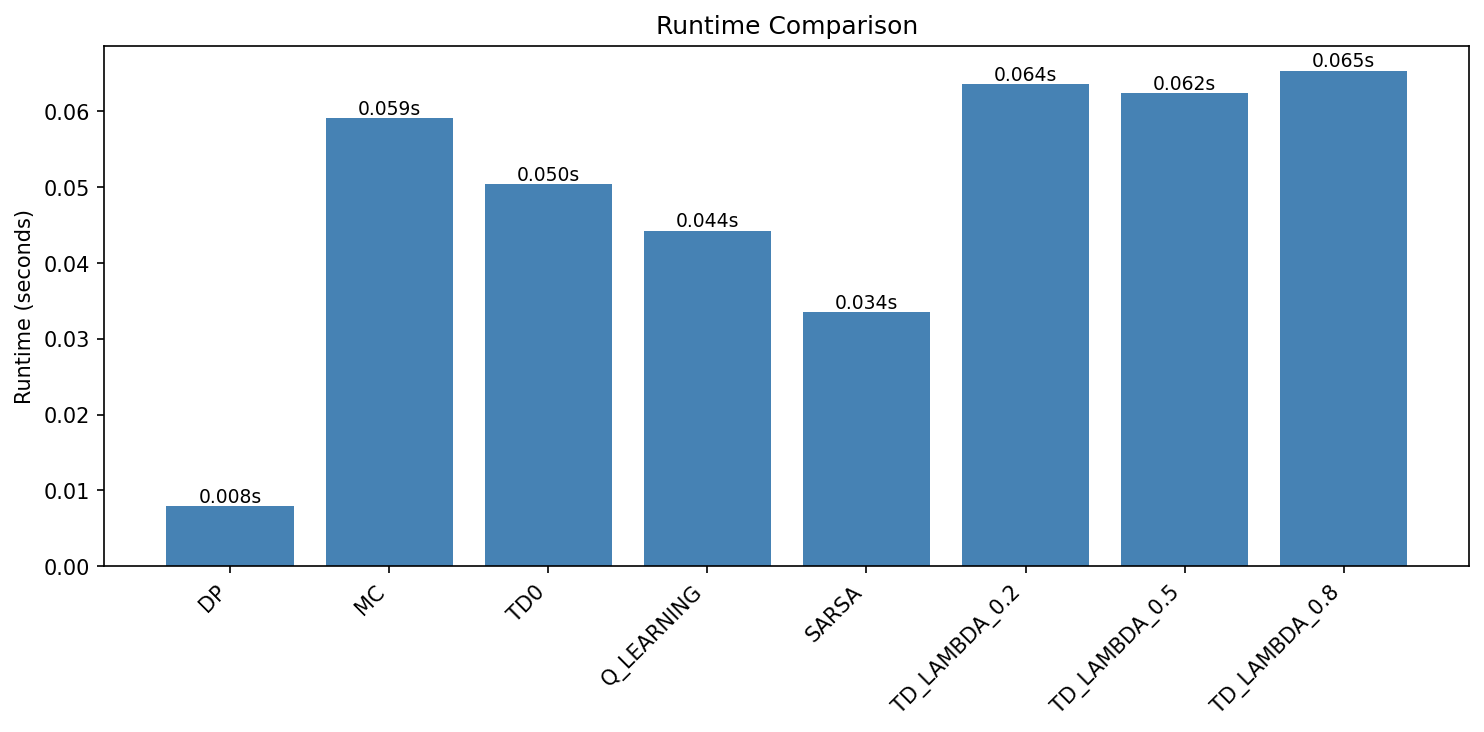
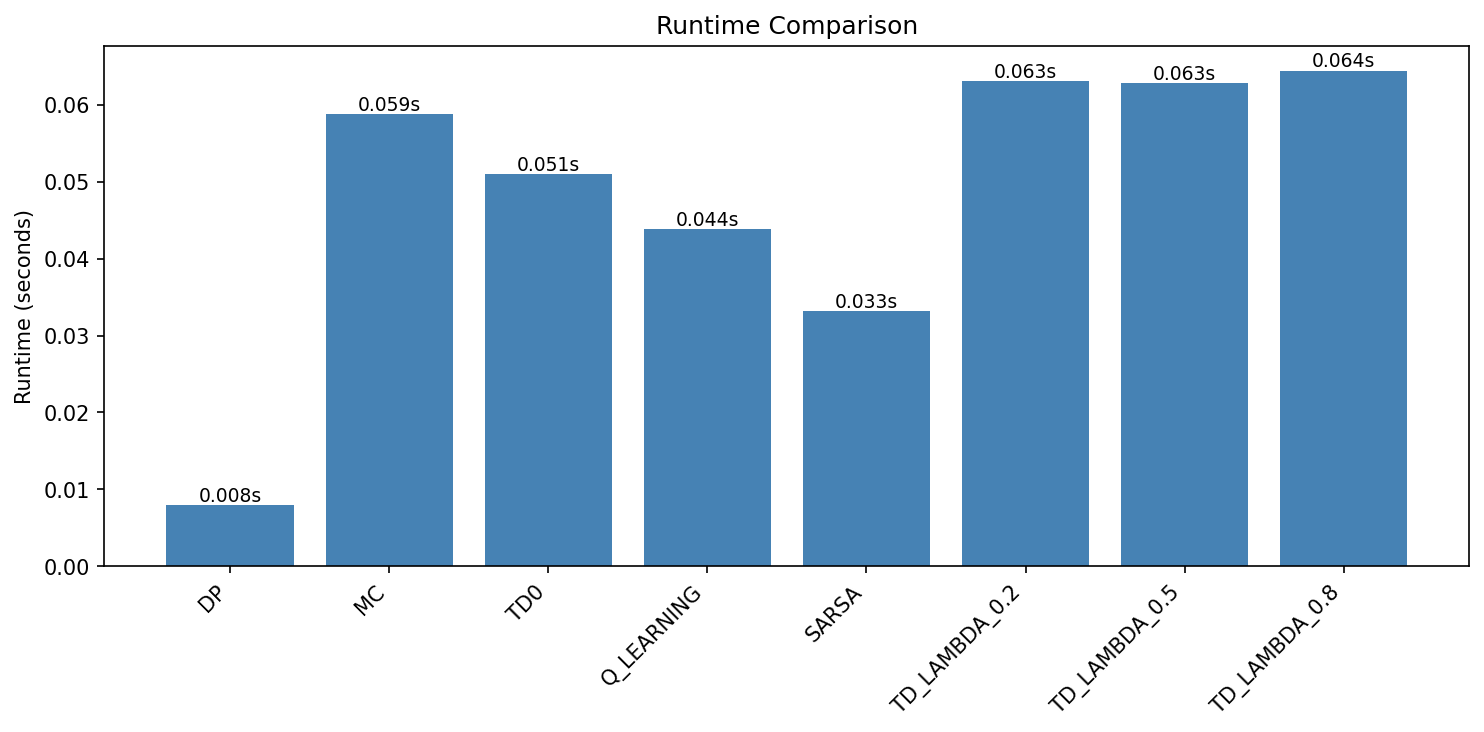
Add abstract generator, output plots, and update gitignore

diff --git a/imitations/create_abstract.py b/imitations/create_abstract.py
@@ -1,0 +1,177 @@
+"""Generate the project abstract as a formatted .docx following the template."""
+
+from docx import Document
+from docx.shared import Pt, Cm, RGBColor
+from docx.enum.text import WD_ALIGN_PARAGRAPH
+from docx.oxml.ns import qn
+import os
+
+OUTPUT_DIR = os.path.dirname(os.path.abspath(__file__))
+FIGURE_PATH = os.path.join(OUTPUT_DIR, "output_plots", "4_trajectories.png")
+OUT_PATH = os.path.join(OUTPUT_DIR, "abstract.docx")
+
+doc = Document()
+
+# --- Page margins: 2.5 cm all round ---
+for section in doc.sections:
+    section.top_margin = Cm(2.5)
+    section.bottom_margin = Cm(2.5)
+    section.left_margin = Cm(2.5)
+    section.right_margin = Cm(2.5)
+
+# --- Helper to set font on a run ---
+def set_run_font(run, name, size, bold=False, italic=False, color=None):
+    run.font.name = name
+    run.font.size = Pt(size)
+    run.bold = bold
+    run.italic = italic
+    if color:
+        run.font.color.rgb = RGBColor(*color)
+    # Force font for East Asian text too
+    r = run._element
+    rPr = r.get_or_add_rPr()
+    rFonts = rPr.find(qn('w:rFonts'))
+    if rFonts is None:
+        rFonts = r.makeelement(qn('w:rFonts'), {})
+        rPr.insert(0, rFonts)
+    rFonts.set(qn('w:ascii'), name)
+    rFonts.set(qn('w:hAnsi'), name)
+
+def set_paragraph_spacing(para, before=0, after=0, line_spacing=1.0):
+    pf = para.paragraph_format
+    pf.space_before = Pt(before)
+    pf.space_after = Pt(after)
+    pf.line_spacing = line_spacing
+
+# --- Title (Arial 14pt, bold, centred) ---
+title = doc.add_paragraph()
+title.alignment = WD_ALIGN_PARAGRAPH.CENTER
+run = title.add_run(
+    "Dropout-Aware Q-Learning for Trajectory Tracking Under "
+    "Lossy Network Conditions: A Simplified Simulation Study Inspired "
+    "by Inverse Reinforcement Learning With Data Dropouts"
+)
+set_run_font(run, "Arial", 14, bold=True)
+set_paragraph_spacing(title, before=0, after=6)
+
+# --- Author (Times New Roman 14pt) ---
+author = doc.add_paragraph()
+author.alignment = WD_ALIGN_PARAGRAPH.LEFT
+run = author.add_run("*Peleg, D.")
+set_run_font(run, "Times New Roman", 14)
+set_paragraph_spacing(author, before=0, after=0)
+
+# --- Lead presenter ---
+presenter = doc.add_paragraph()
+presenter.alignment = WD_ALIGN_PARAGRAPH.LEFT
+run = presenter.add_run("*lead presenter")
+set_run_font(run, "Times New Roman", 10)
+set_paragraph_spacing(presenter, before=0, after=0)
+
+# --- Affiliation ---
+affil = doc.add_paragraph()
+affil.alignment = WD_ALIGN_PARAGRAPH.LEFT
+run = affil.add_run("doron.peleg@gmail.com, Afeka College of Engineering, Tel Aviv, Israel")
+set_run_font(run, "Times New Roman", 10)
+set_paragraph_spacing(affil, before=0, after=12)
+
+# --- Body paragraphs (Times New Roman 12pt, justified, single-spaced) ---
+body_paragraphs = [
+    (
+        "Standard reinforcement learning (RL) algorithms assume that the agent "
+        "receives reliable state observations at every time step. In real-world "
+        "networked control systems, however, sensor readings and control signals "
+        "are transmitted over wireless channels where packets are randomly lost. "
+        "Fan et al. (2025) addressed this challenge in their paper \"Inverse "
+        "Reinforcement Learning for Discrete-Time Systems With Data Dropouts\" "
+        "(IEEE Transactions on Cybernetics, Vol. 55, No. 4), proposing both a "
+        "model-based IRL algorithm using a Smith predictor for state estimation "
+        "and a data-driven, model-free inverse Q-learning algorithm that "
+        "explicitly accounts for random state dropouts. Their work provides "
+        "rigorous convergence proofs and demonstrates that learning both the "
+        "cost function and the control policy from incomplete data outperforms "
+        "methods that rely on manually specified cost functions."
+    ),
+    (
+        "This project presents a simplified, educational simulation that "
+        "captures the core insights of Fan et al. We construct a 1D trajectory "
+        "tracking environment in which an agent must follow a sinusoidal target "
+        "using three discrete actions (left, stay, right), with 30% of state "
+        "observations randomly dropped to simulate lossy network conditions. "
+        "Three tabular Q-learning agents are compared: (1) a Baseline agent "
+        "trained with perfect observations, (2) a Naive agent that trains under "
+        "dropout but treats stale (last-received) states as current, and "
+        "(3) a Dropout-Aware agent that skips Q-table updates whenever the "
+        "current state is known to be stale. Through systematic ablation "
+        "testing, we found that the dominant source of performance degradation "
+        "is Q-table corruption from writing updates to incorrect state entries, "
+        "and that simply withholding updates during dropout episodes is the "
+        "most effective countermeasure—reducing the training reward gap relative "
+        "to the naive agent by approximately 19% (from −45.9 to −43.2 vs. the "
+        "baseline’s −31.8)."
+    ),
+    (
+        "Additionally, we implement an inverse RL pipeline that recovers the "
+        "reward function solely from expert demonstrations, without access to "
+        "the hand-coded reward. Using a five-dimensional feature representation "
+        "(bullseye indicator, linear penalty, quadratic penalty, danger zone, "
+        "and bias), the IRL gradient-descent loop converges within 200 "
+        "iterations and produces a policy whose evaluation performance is "
+        "identical to the hand-coded baseline (mean tracking error = 0.086, "
+        "total reward = −25.7), confirming that the expert’s implicit objective "
+        "was successfully recovered. A full 3×2 comparison (three agent "
+        "variants × two reward sources) demonstrates that the IRL-learned "
+        "reward generalises across all agent types, preserving the same "
+        "performance ordering observed under the hand-coded reward."
+    ),
+    (
+        "Our findings reinforce the paper’s central message: explicitly "
+        "accounting for data dropouts in the learning process yields measurable "
+        "improvements, and inverse RL provides a viable alternative to manual "
+        "reward engineering. The full implementation (1,139 lines of Python, "
+        "NumPy, and Matplotlib) and all experimental results are publicly "
+        "available at github.com/dpartuk/RL."
+    ),
+]
+
+for text in body_paragraphs:
+    para = doc.add_paragraph()
+    para.alignment = WD_ALIGN_PARAGRAPH.JUSTIFY
+    run = para.add_run(text)
+    set_run_font(run, "Times New Roman", 12)
+    set_paragraph_spacing(para, before=0, after=6)
+
+# --- Figure (if exists) ---
+if os.path.exists(FIGURE_PATH):
+    # Add figure
+    fig_para = doc.add_paragraph()
+    fig_para.alignment = WD_ALIGN_PARAGRAPH.CENTER
+    run = fig_para.add_run()
+    run.add_picture(FIGURE_PATH, width=Cm(12))
+    set_paragraph_spacing(fig_para, before=6, after=2)
+
+    # Caption
+    cap = doc.add_paragraph()
+    cap.alignment = WD_ALIGN_PARAGRAPH.CENTER
+    run = cap.add_run(
+        "Figure 1. Agent trajectories vs. sinusoidal target under 30% "
+        "packet dropout. Top: Baseline (no dropout). Middle: Naive and "
+        "Dropout-Aware agents. Bottom: Dropout mask (red = packet lost)."
+    )
+    set_run_font(run, "Times New Roman", 10, italic=True)
+    set_paragraph_spacing(cap, before=0, after=6)
+
+# --- Reference ---
+ref_para = doc.add_paragraph()
+ref_para.alignment = WD_ALIGN_PARAGRAPH.JUSTIFY
+run = ref_para.add_run(
+    "Reference: Fan, J., Shi, P., Xue, W., Lian, B., Cui, Y., & Lewis, "
+    "F. L. (2025). Inverse Reinforcement Learning for Discrete-Time "
+    "Systems With Data Dropouts. IEEE Transactions on Cybernetics, 55(4), "
+    "1744–1757."
+)
+set_run_font(run, "Times New Roman", 10)
+set_paragraph_spacing(ref_para, before=0, after=0)
+
+doc.save(OUT_PATH)
+print(f"Abstract saved to: {OUT_PATH}")
